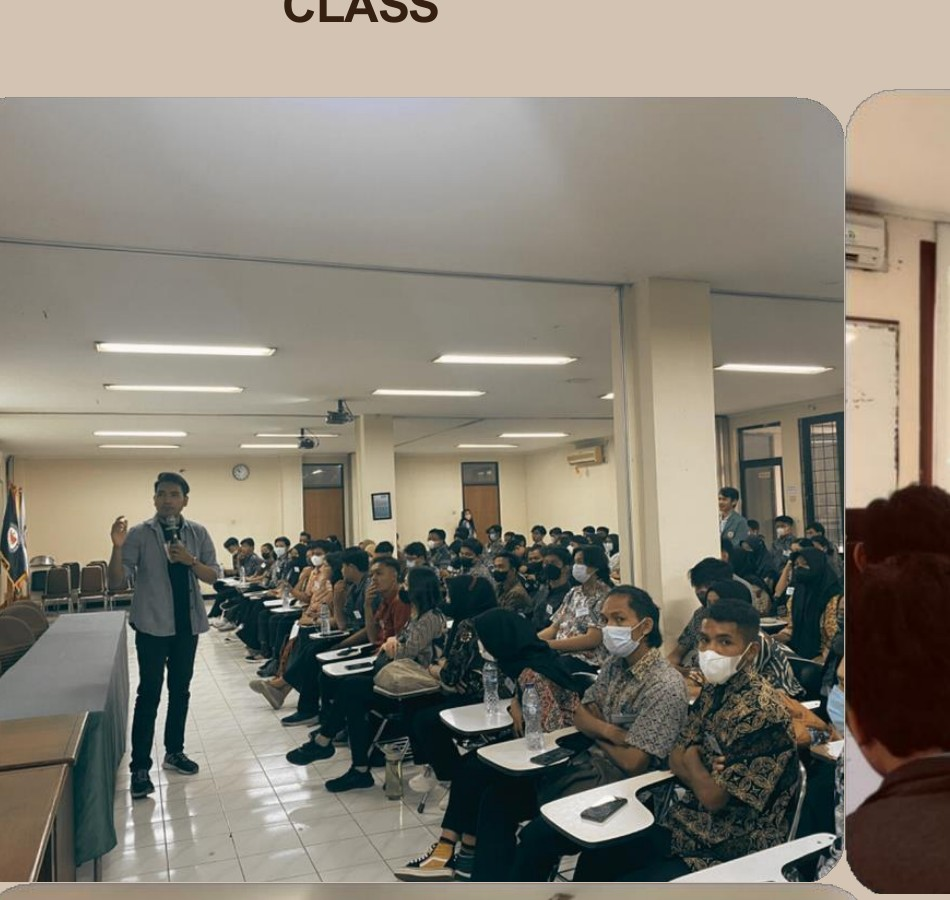
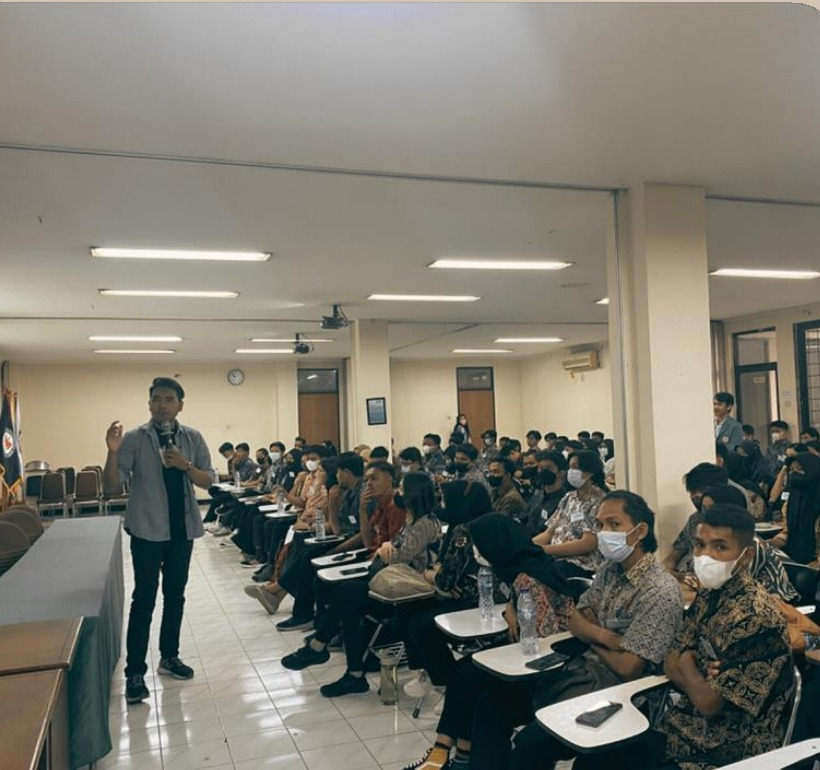
feat: full leadership photo sets, IG links, remove KUTU IT, no-crop gallery, ministries section, hero self-intro

diff --git a/data.js b/data.js
@@ -12,12 +12,12 @@ const UI = {
   navLeadership:{ nl: 'Leiderschap',    en: 'Leadership',      id: 'Kepemimpinan' },
   navContact:   { nl: 'Contact',        en: 'Contact',         id: 'Kontak' },
 
-  heroEyebrow:  { nl: 'TECHNOLOGIE × STRATEGIE × LEIDERSCHAP', en: 'TECHNOLOGY × STRATEGY × LEADERSHIP', id: 'TEKNOLOGI × STRATEGI × KEPEMIMPINAN' },
-  heroHeadline: { nl: 'IK BOUW SYSTEMEN DIE ECHT WERKEN.', en: 'I BUILD SYSTEMS THAT ACTUALLY WORK.', id: 'SAYA MEMBANGUN SISTEM YANG BENAR-BENAR JALAN.' },
+  heroEyebrow:  { nl: 'INDONESIË → NEDERLAND · AI & STRATEGIE', en: 'INDONESIA → NETHERLANDS · AI & STRATEGY', id: 'INDONESIA → BELANDA · AI & STRATEGI' },
+  heroHeadline: { nl: 'HALLO, IK BEN EGGAN NACHSON SILUETA.', en: "HELLO, I'M EGGAN NACHSON SILUETA.", id: 'HALO, SAYA EGGAN NACHSON SILUETA.' },
   heroSub: {
-    nl: 'Ik bouw digitale producten en AI-gedreven systemen, leid gemeenschappen, en zet ideeën om in dingen die echte impact maken.',
-    en: 'I build digital products and AI-powered systems, lead communities, and turn ideas into things that create real impact.',
-    id: 'Saya membangun produk digital dan sistem berbasis AI, memimpin komunitas, dan mengubah ide menjadi sesuatu yang berdampak nyata.',
+    nl: 'Ik kom uit Indonesië en volg momenteel mijn derde masteropleiding in Nederland. Ik behaalde een master Strategic Intelligence aan de Universiteit van Indonesië, een master Artificial Intelligence aan de Universität zu Lübeck, en rond nu een master Data-Driven Business af aan The Hague University of Applied Sciences. Ik heb AI-producten en -programma\'s mee opgebouwd voor Indonesië\'s Ministerie van Creatieve Economie en Ministerie van Onderzoek & Hoger Onderwijs / LPDP, en leid vandaag AI-productstrategie bij MatchupSkills.',
+    en: "I'm from Indonesia and currently pursuing my third master's degree in the Netherlands. I hold a master's in Strategic Intelligence from Universitas Indonesia, a master's in Artificial Intelligence from the University of Lübeck, and I'm now completing a master's in Data-Driven Business at The Hague University of Applied Sciences. I've helped build AI products and programs for Indonesia's Ministry of Creative Economy and Ministry of Research & Higher Education / LPDP, and I currently lead AI product strategy at MatchupSkills.",
+    id: 'Saya berasal dari Indonesia dan sedang menempuh gelar master ketiga saya di Belanda. Saya meraih gelar master Strategic Intelligence dari Universitas Indonesia, master Artificial Intelligence dari Universität zu Lübeck, dan saat ini menyelesaikan master Data-Driven Business di The Hague University of Applied Sciences. Saya turut membangun produk dan program AI untuk Kementerian Ekonomi Kreatif Indonesia dan Kementerian Riset & Pendidikan Tinggi / LPDP, dan kini memimpin strategi produk AI di MatchupSkills.',
   },
   heroCtaWork:    { nl: 'BEKIJK MIJN WERK', en: 'EXPLORE MY WORK', id: 'LIHAT KARYA SAYA' },
   heroCtaContact: { nl: 'NEEM CONTACT OP', en: "LET'S CONNECT", id: 'HUBUNGI SAYA' },
@@ -26,18 +26,23 @@ const UI = {
   metaBuilt:    { nl: 'GEBOUWD', en: 'BUILT', id: 'DIBANGUN' },
   metaCommunity:{ nl: 'GEMEENSCHAP', en: 'COMMUNITY', id: 'KOMUNITAS' },
   metaBasedInVal:   { nl: 'Den Haag, Nederland', en: 'The Hague, Netherlands', id: 'Den Haag, Belanda' },
-  metaEducationVal: { nl: '2× Masterdiploma\'s', en: '2× Master\'s Degrees', id: '2× Gelar Master' },
+  metaEducationVal: { nl: '3× Masterdiploma\'s', en: '3× Master\'s Degrees', id: '3× Gelar Master' },
   metaBuiltVal:     { nl: '4 productiesystemen', en: '4 Production Systems', id: '4 Sistem Produksi' },
   metaCommunityVal: { nl: '20K+ netwerk in Indonesië', en: '20K+ Network Across Indonesia', id: '20K+ Jaringan di Indonesia' },
 
   homeSectionWork:       { nl: 'GESELECTEERD WERK', en: 'SELECTED WORK', id: 'KARYA PILIHAN' },
   homeSectionLeadership: { nl: 'VOORBIJ DE CODE', en: 'BEYOND THE CODE', id: 'LEBIH DARI SEKADAR KODE' },
+  ministriesEyebrow: { nl: 'NATIONALE IMPACT', en: 'NATIONAL IMPACT', id: 'DAMPAK NASIONAL' },
+  ministriesTitle: { nl: 'Ik heb Indonesische ministeries geholpen AI-producten te bouwen', en: "I've helped Indonesian ministries build AI products", id: 'Saya membantu kementerian Indonesia membangun produk AI' },
+  ministriesNote: { nl: 'Via de gemeenschappen die ik leid, heb ik meegewerkt aan AI-producten en -programma\'s voor twee Indonesische ministeries.', en: "Through the communities I lead, I've contributed AI products and programs for two Indonesian ministries.", id: 'Lewat komunitas yang saya pimpin, saya turut membangun produk dan program AI untuk dua kementerian Indonesia.' },
+  viewOrg:  { nl: 'Bekijk organisatie', en: 'View organization', id: 'Lihat organisasi' },
   homeSectionResearch:   { nl: 'ONDERZOEK', en: 'RESEARCH', id: 'RISET' },
   viewAll:      { nl: 'Bekijk alles', en: 'View all', id: 'Lihat semua' },
   readMore:     { nl: 'Meer lezen', en: 'Read more', id: 'Baca selengkapnya' },
   viewCaseStudy:{ nl: 'Bekijk case study', en: 'View case study', id: 'Lihat studi kasus' },
   visitSite:    { nl: 'Bezoek live site', en: 'Visit live site', id: 'Kunjungi situs live' },
   viewScreens:  { nl: 'Bekijk screenshots', en: 'View screenshots', id: 'Lihat screenshot' },
+  viewInstagram:{ nl: 'Instagram', en: 'Instagram', id: 'Instagram' },
   projectLabel: { nl: 'PROJECT', en: 'PROJECT', id: 'PROYEK' },
   close:        { nl: 'SLUITEN', en: 'CLOSE', id: 'TUTUP' },
 
@@ -264,6 +269,40 @@ const PROJECTS = [
   },
 ];
 
+// ── National impact: ministries & institutions ──────────────────────────────
+// NEW 2026-08-15 — home-page proof that the community-leadership work (ICCN,
+// MatchupSkills) isn't just volunteering, it's building real AI products and
+// programs alongside Indonesian government ministries and institutions.
+const MINISTRIES = [
+  {
+    logos: [{ img: 'ekraf.png', name: 'Kementerian Ekonomi Kreatif RI' }],
+    photo: 'iccn-1-headline.jpg',
+    ministryName: { nl: 'Ministerie van Creatieve Economie (Kemenparekraf/EKRAF)', en: 'Ministry of Creative Economy (Kemenparekraf/EKRAF)', id: 'Kementerian Ekonomi Kreatif RI (Kemenparekraf/EKRAF)' },
+    desc: {
+      nl: 'Als Community Director bij de Indonesian Creative Cities Network (ICCN) help ik het Ministerie van Creatieve Economie met talentontwikkeling en AI-certificering voor jonge creatieven in 38 provincies. Ik bouwde mee aan het platform daarvoor via Creative AI Partner.',
+      en: 'As Community Director at the Indonesian Creative Cities Network (ICCN), I support the Ministry of Creative Economy on talent development and AI certification for young creatives across 38 provinces. I helped build the platform for it through Creative AI Partner.',
+      id: 'Sebagai Community Director di Indonesian Creative Cities Network (ICCN), saya membantu Kementerian Ekonomi Kreatif dalam pengembangan talenta dan sertifikasi AI untuk kreator muda di 38 provinsi. Saya turut membangun wadahnya lewat Creative AI Partner.',
+    },
+    org: { name: 'Indonesian Creative Cities Network (ICCN)', url: 'https://www.instagram.com/iccnmedia/?hl=en' },
+    product: { name: 'Creative AI Partner', url: 'https://www.creativeaipartner.id' },
+  },
+  {
+    logos: [
+      { text: 'Kemendiktisaintek', name: 'Kementerian Pendidikan Tinggi, Sains & Teknologi RI' },
+      { img: 'lpdp.png', name: 'LPDP — Lembaga Pengelola Dana Pendidikan' },
+    ],
+    photo: 'ms-home.jpg',
+    ministryName: { nl: 'Ministerie van Hoger Onderwijs, Wetenschap & Technologie + LPDP', en: 'Ministry of Higher Education, Science & Technology + LPDP', id: 'Kementerian Pendidikan Tinggi, Sains & Teknologi + LPDP' },
+    desc: {
+      nl: 'Bij MatchupSkills bouw ik als AI Product Lead een leerplatform dat mensen helpt zich voor te bereiden op IELTS, scholarship-aanvragen, en thesis/dissertatie-schrijven — direct relevant voor het werk van het Ministerie van Hoger Onderwijs en LPDP-beursstudenten.',
+      en: 'At MatchupSkills, as AI Product Lead, I build a learning platform that helps people prepare for IELTS, scholarship applications, and thesis/dissertation writing — directly relevant to the Ministry of Higher Education\'s mission and LPDP scholarship awardees.',
+      id: 'Di MatchupSkills, sebagai AI Product Lead, saya membangun platform belajar yang membantu orang mempersiapkan IELTS, aplikasi beasiswa, dan penulisan tesis/disertasi — relevan langsung dengan misi Kementerian Pendidikan Tinggi dan para awardee beasiswa LPDP.',
+    },
+    org: null,
+    product: { name: 'MatchupSkills', url: 'https://www.matchupskills.id' },
+  },
+];
+
 // ── Leadership & Community ──────────────────────────────────────────────────
 // Synthesized from Portofolio_Eggan Nachson.pdf (11 slides) + the ICCN and
 // Indonesia Mengglobal appointment cards. Entries without a clean personal
@@ -271,19 +310,23 @@ const PROJECTS = [
 // instead of forcing a mismatched image.
 const LEADERSHIP = [
   {
-    year: '2025 — ', yearSuffix: { nl: 'HEDEN', en: 'PRESENT', id: 'SEKARANG' }, img: 'iccn-director.jpg',
+    year: '2025 — ', yearSuffix: { nl: 'HEDEN', en: 'PRESENT', id: 'SEKARANG' },
+    images: ['iccn-1-headline.jpg', 'iccn-2-programs.jpg', 'iccn-3-fgd-events.jpg', 'iccn-4-river.jpg'],
+    link: 'https://www.instagram.com/iccnmedia/?hl=en',
     org: 'Indonesian Creative Cities Network',
     role: { nl: 'Directeur Talentontwikkeling & Certificering', en: 'Director of Talent Development & Certification', id: 'Direktur Pengembangan Talenta & Sertifikasi' },
     stat: '25K+',
     statLabel: { nl: 'Leden in het ecosysteem', en: 'Ecosystem Members', id: 'Anggota Ekosistem' },
     desc: {
-      nl: 'Leidt nationale AI- en digitale-economiecertificeringsinitiatieven met het Ministerie van Creatieve Economie in 38 provincies. Beheert 120+ regionale leiders binnen een landelijke talentontwikkelingsstructuur; schaalde ecosysteembetrokkenheid naar 25.000+ leden.',
-      en: 'Leading national AI and digital-economy certification initiatives with the Ministry of Creative Economy across 38 provinces. Managing 120+ regional leaders under a nationwide talent development structure; scaled ecosystem engagement to 25,000+ members.',
-      id: 'Memimpin inisiatif sertifikasi AI dan ekonomi digital nasional bersama Kementerian Ekonomi Kreatif di 38 provinsi. Mengelola 120+ pemimpin regional dalam struktur pengembangan talenta nasional; menskalakan keterlibatan ekosistem hingga 25.000+ anggota.',
+      nl: 'ICCN is waar ik het Indonesische Ministerie van Creatieve Economie (Kemenparekraf) ondersteun als Community Director voor jong creatief talent — ik bouwde het platform daarvoor mee via Creative AI Partner. Leidt nationale AI- en digitale-economiecertificeringsinitiatieven in 38 provincies, beheert 120+ regionale leiders en schaalde ecosysteembetrokkenheid naar 25.000+ leden.',
+      en: 'ICCN is where I support Indonesia\'s Ministry of Creative Economy (Kemenparekraf) as Community Director for young creative talent — I helped build the platform for it through Creative AI Partner. Leading national AI and digital-economy certification initiatives across 38 provinces, managing 120+ regional leaders and scaling ecosystem engagement to 25,000+ members.',
+      id: 'ICCN adalah tempat saya membantu Kementerian Ekonomi Kreatif Indonesia (Kemenparekraf) sebagai Community Director untuk talenta kreatif muda — saya turut membangun wadahnya lewat Creative AI Partner. Memimpin inisiatif sertifikasi AI dan ekonomi digital nasional di 38 provinsi, mengelola 120+ pemimpin regional, dan menskalakan keterlibatan ekosistem hingga 25.000+ anggota.',
     },
   },
   {
-    year: '2026', yearSuffix: { nl: 'HEDEN', en: 'PRESENT', id: 'SEKARANG' }, img: 'indonesia-mengglobal.jpg',
+    year: '2026', yearSuffix: { nl: 'HEDEN', en: 'PRESENT', id: 'SEKARANG' },
+    images: ['mengglobal-1-headline.jpg', 'mengglobal-2-programs.jpg', 'mengglobal-3-programs.jpg'],
+    link: 'https://www.instagram.com/indonesiamengglobal/?hl=en',
     org: 'Indonesia Mengglobal',
     role: { nl: 'VP Strategische Partnerschappen & Communicatie', en: 'VP Strategic Partnerships & Communications', id: 'VP Kemitraan Strategis & Komunikasi' },
     stat: '10K+',
@@ -322,6 +365,7 @@ const LEADERSHIP = [
     // Branding & Creative" (that title came from an older self-made slide
     // deck and undersold his actual scope — CV is the authoritative source).
     year: '2024', yearSuffix: { nl: 'HEDEN', en: 'PRESENT', id: 'SEKARANG' }, img: null,
+    link: 'https://www.instagram.com/titikterangmedia/?hl=en',
     org: 'Titik Terang Community',
     role: { nl: 'Chief Operating Officer', en: 'Chief Operating Officer', id: 'Chief Operating Officer' },
     stat: '1.000+',
@@ -346,6 +390,7 @@ const LEADERSHIP = [
   },
   {
     year: '2024', yearSuffix: { nl: 'HEDEN', en: 'PRESENT', id: 'SEKARANG' }, img: null,
+    link: 'https://www.instagram.com/youthranger.id/?hl=en',
     org: 'YouthRanger.id',
     role: { nl: 'Creatief Consultant', en: 'Creative Consultant', id: 'Konsultan Kreatif' },
     stat: '218K+',
@@ -392,26 +437,13 @@ const LEADERSHIP = [
       id: 'Menjadi mentor Business Development dalam program belajar kolaboratif yang mencakup kelas BD, web development, data science, dan Figma.',
     },
   },
-  {
-    year: '2021', img: 'kutu-it.jpg',
-    org: 'Project KUTU IT',
-    role: { nl: 'Technopreneurship-mentor', en: 'Technopreneurship Mentor', id: 'Mentor Technopreneurship' },
-    stat: '45',
-    statLabel: { nl: 'Deelnemers — Digital Skills Bootcamp', en: 'Attendance — Digital Skills Bootcamp', id: 'Peserta — Digital Skills Bootcamp' },
-    desc: {
-      nl: 'Zijn vroegste mentorproject: een digitale-vaardighedenbootcamp voor universiteitsstudenten, in samenwerking met HIMTI ITB Swadharma.',
-      en: 'His earliest mentorship project — a digital skills bootcamp for university students, run with HIMTI at ITB Swadharma.',
-      id: 'Proyek mentorship paling awal — bootcamp keterampilan digital untuk mahasiswa, diselenggarakan bersama HIMTI ITB Swadharma.',
-    },
-  },
 ];
 
 // ── Gallery (Field Notes) ───────────────────────────────────────────────────
 const GALLERY = [
   { img: 'critical-grounds-stage.jpg', caption: { nl: 'Critical Grounds — gesprek op het podium', en: 'Critical Grounds — on-stage conversation', id: 'Critical Grounds — sesi panggung' } },
-  { img: 'iccn-fgd-palembang.jpg', caption: { nl: 'Focus-groepdiscussie, Palembang', en: 'Focus group discussion, Palembang', id: 'Focus group discussion, Palembang' } },
-  { img: 'river-cleanup-1.jpg', caption: { nl: 'Musi-rivier schoonmaakactie', en: 'Musi River cleanup movement', id: 'Gerakan bersih Sungai Musi' } },
-  { img: 'river-cleanup-2.jpg', caption: { nl: 'Nationale Rivierdag 2026', en: 'National River Day 2026', id: 'Hari Sungai Nasional 2026' } },
+  { img: 'iccn-fgd-palembang.jpg', caption: { nl: 'ICCN Sumsel — focus-groepdiscussie, Palembang', en: 'ICCN Sumsel — focus group discussion, Palembang', id: 'ICCN Sumsel — focus group discussion, Palembang' } },
+  { img: 'river-cleanup.jpg', caption: { nl: '"Guardians of the River" — Musi-rivier schoonmaakactie', en: '"Guardians of the River" — Musi River cleanup movement', id: '"Guardians of the River" — gerakan bersih Sungai Musi' } },
   { img: 'timur-growth-panel.jpg', caption: { nl: 'Timur Growth 2 — panel', en: 'Timur Growth 2 — panel', id: 'Timur Growth 2 — panel' } },
   { img: 'unesco-forum.jpg', caption: { nl: 'UNESCO & UNDP forum', en: 'UNESCO & UNDP forum', id: 'Forum UNESCO & UNDP' } },
   { img: 'pindad-visit.jpg', caption: { nl: 'PT Pindad studiebezoek', en: 'PT Pindad study visit', id: 'Kunjungan studi PT Pindad' } },
@@ -480,4 +512,4 @@ const CONTACT = {
   waNetherlands: { phone: '+31 6 85527266', link: 'https://wa.me/31685527266', label: { nl: 'WhatsApp (Nederland)', en: 'WhatsApp (Netherlands)', id: 'WhatsApp (Belanda)' } },
 };
 
-module.exports = { LANGS, UI, EDUCATION, EXPERIENCE, COURSES, ACHIEVEMENTS, SKILLS, PROJECTS, LEADERSHIP, GALLERY, RESEARCH, CONTACT };
+module.exports = { LANGS, UI, EDUCATION, EXPERIENCE, COURSES, ACHIEVEMENTS, SKILLS, PROJECTS, MINISTRIES, LEADERSHIP, GALLERY, RESEARCH, CONTACT };

diff --git a/build-portfolio.js b/build-portfolio.js
@@ -1,6 +1,6 @@
 const fs = require('fs');
 const path = require('path');
-const { LANGS, UI, EDUCATION, EXPERIENCE, COURSES, ACHIEVEMENTS, SKILLS, PROJECTS, LEADERSHIP, GALLERY, RESEARCH, CONTACT } = require('./data.js');
+const { LANGS, UI, EDUCATION, EXPERIENCE, COURSES, ACHIEVEMENTS, SKILLS, PROJECTS, MINISTRIES, LEADERSHIP, GALLERY, RESEARCH, CONTACT } = require('./data.js');
 
 const ROOT = __dirname;
 const OUT = path.join(ROOT, 'dist');
@@ -235,15 +235,35 @@ html[data-theme="dark"] .theme-icon-moon { opacity: 1; transform: scale(1); }
 @media (max-width: 820px) { .lead-grid { grid-template-columns: 1fr; } }
 .lead-card { background: var(--black-surface); padding: 26px 26px 28px; display: flex; flex-direction: column; gap: 10px; }
 .lead-card.has-img { padding: 0; }
-.lead-img { aspect-ratio: 16/10; overflow: hidden; position: relative; }
-.lead-img img { width: 100%; height: 100%; object-fit: cover; transition: transform .3s ease; }
-.lead-card:hover .lead-img:not(.lead-carousel) img { transform: scale(1.03); }
+.lead-img { aspect-ratio: 4/3; overflow: hidden; position: relative; background: var(--black-surface); transition: aspect-ratio .25s ease; }
+.lead-img img { width: 100%; height: 100%; object-fit: contain; transition: transform .3s ease; }
+.lead-card:hover .lead-img:not(.lead-carousel) img { transform: scale(1.02); }
+.lead-ig-link { position: absolute; bottom: 10px; right: 10px; z-index: 2; display: flex; align-items: center; gap: 5px; font-size: 10.5px; font-weight: 700; letter-spacing: 0.04em; color: #fff; background: rgba(0,0,0,0.55); padding: 6px 11px; border-radius: 999px; text-decoration: none; transition: background .15s ease; }
+.lead-ig-link:hover { background: rgba(0,0,0,0.8); }
+.lead-card:not(.has-img) .lead-ig-link { position: static; align-self: flex-start; margin-top: 4px; background: rgba(255,255,255,0.08); }
+.lead-card:not(.has-img) .lead-ig-link:hover { background: rgba(255,255,255,0.16); }
 .lead-carousel .lead-slide { position: absolute; inset: 0; opacity: 0; transition: opacity .25s ease; }
 .lead-carousel .lead-slide.active { opacity: 1; }
 .lead-car-btn { position: absolute; top: 50%; transform: translateY(-50%); width: 34px; height: 34px; border-radius: 50%; border: none; background: rgba(0,0,0,0.55); color: #fff; cursor: pointer; font-size: 15px; z-index: 2; }
 .lead-car-prev { left: 10px; } .lead-car-next { right: 10px; }
 .lead-car-counter { position: absolute; top: 10px; right: 10px; font-size: 10.5px; font-weight: 700; color: #fff; background: rgba(0,0,0,0.55); padding: 3px 9px; border-radius: 999px; z-index: 2; }
 .lead-card-body { padding: 22px 24px 26px; }
+
+/* Ministries (home) */
+.ministries-grid { display: grid; grid-template-columns: 1fr 1fr; gap: 26px; }
+@media (max-width: 860px) { .ministries-grid { grid-template-columns: 1fr; } }
+.ministry-card { border: 1px solid var(--border); border-radius: 3px; overflow: hidden; background: var(--white); }
+.ministry-photo { aspect-ratio: 4/3; overflow: hidden; background: var(--gray-light); }
+.ministry-photo img { width: 100%; height: 100%; object-fit: cover; object-position: top; }
+.ministry-body { padding: 24px 26px 28px; }
+.ministry-logos { display: flex; align-items: center; gap: 16px; flex-wrap: wrap; margin-bottom: 16px; }
+.ministry-logo-img { height: 34px; width: auto; max-width: 120px; object-fit: contain; }
+.ministry-logo-text { font-family: var(--serif); font-weight: 700; font-size: 13.5px; color: var(--ink-soft); border: 1px solid var(--border); border-radius: 3px; padding: 6px 10px; }
+.ministry-name { font-size: 17px; font-weight: 800; margin: 0 0 10px; text-wrap: balance; }
+.ministry-desc { font-size: 13.5px; color: var(--ink-soft); line-height: 1.65; margin: 0 0 20px; }
+.ministry-links { display: flex; flex-wrap: wrap; gap: 10px; }
+.ministry-link.btn-outline { color: var(--ink); border-color: var(--border); }
+.ministry-link.btn-outline:hover { border-color: var(--ink); }
 .lead-year { font-size: 11px; color: #8A8A86; font-weight: 700; letter-spacing: 0.06em; }
 .lead-org { font-size: 17px; font-weight: 800; margin: 6px 0 2px; }
 .lead-role { font-size: 12.5px; color: #A8A8A4; margin-bottom: 10px; }
@@ -254,10 +274,10 @@ html[data-theme="dark"] .theme-icon-moon { opacity: 1; transform: scale(1); }
 /* Gallery — big single-photo slideshow (matches the project-modal carousel
    language) with a thumbnail strip underneath so every photo is visible at
    a glance, not just reachable by clicking into a lightbox. */
-.gallery-main { position: relative; aspect-ratio: 16/9.5; background: #000; border-radius: 2px; overflow: hidden; }
+.gallery-main { position: relative; aspect-ratio: 16/9.5; background: #000; border-radius: 2px; overflow: hidden; transition: aspect-ratio .25s ease; }
 .gallery-slide { position: absolute; inset: 0; opacity: 0; transition: opacity .3s ease; }
 .gallery-slide.active { opacity: 1; }
-.gallery-slide img { width: 100%; height: 100%; object-fit: cover; object-position: center; cursor: zoom-in; }
+.gallery-slide img { width: 100%; height: 100%; object-fit: contain; object-position: center; cursor: zoom-in; }
 .gallery-main .car-btn { width: 44px; height: 44px; font-size: 18px; }
 .gallery-caption-bar { position: absolute; left: 0; right: 0; bottom: 0; padding: 34px 20px 16px; background: linear-gradient(to top, rgba(0,0,0,.75), transparent); color: #fff; font-size: 13px; font-weight: 600; }
 .gallery-thumbs { display: flex; gap: 10px; overflow-x: auto; padding: 4px 2px 8px; margin-top: 16px; }
@@ -432,6 +452,25 @@ function buildHome(lang) {
 
   const topProjects = PROJECTS.slice(0, 2).map(p => projectCardHtml(p, lang)).join('');
   const topLeadership = LEADERSHIP.slice(0, 4).map((l, i) => leadershipCardHtml(l, lang, 'home-' + i)).join('');
+  const ministriesHtml = MINISTRIES.map(m => {
+    const logos = m.logos.map(l => l.img
+      ? `<img src="${assetUrl('logos/' + l.img)}" alt="${l.name}" title="${l.name}" class="ministry-logo-img" />`
+      : `<span class="ministry-logo-text" title="${l.name}">${l.text}</span>`).join('');
+    const links = [
+      m.org ? `<a class="btn btn-outline ministry-link" href="${m.org.url}" target="_blank" rel="noopener noreferrer">${t(UI.viewOrg, lang)} ↗</a>` : '',
+      `<a class="btn btn-primary ministry-link" href="${m.product.url}" target="_blank" rel="noopener noreferrer">${t(UI.visitSite, lang)} — ${m.product.name} ↗</a>`,
+    ].join('');
+    return `
+    <div class="ministry-card reveal">
+      <div class="ministry-photo"><img src="${assetUrl('ministries/' + m.photo)}" alt="${t(m.ministryName, lang)}" loading="lazy" /></div>
+      <div class="ministry-body">
+        <div class="ministry-logos">${logos}</div>
+        <p class="ministry-name">${t(m.ministryName, lang)}</p>
+        <p class="ministry-desc">${t(m.desc, lang)}</p>
+        <div class="ministry-links">${links}</div>
+      </div>
+    </div>`;
+  }).join('');
 
   const body = `
   <section class="hero">
@@ -451,6 +490,15 @@ function buildHome(lang) {
   </section>
 
   <section class="section section-white">
+    <div class="wrap">
+      <p class="label label-blue"><span class="rule-blue"></span>${t(UI.ministriesEyebrow, lang)}</p>
+      <h2 class="font-display section-title" style="margin-top:10px">${t(UI.ministriesTitle, lang)}</h2>
+      <p class="section-note">${t(UI.ministriesNote, lang)}</p>
+      <div class="ministries-grid" style="margin-top:30px">${ministriesHtml}</div>
+    </div>
+  </section>
+
+  <section class="section section-off">
     <div class="wrap">
       <div class="section-head">
         <div><p class="label label-blue"><span class="rule-blue"></span>${t(UI.homeSectionWork, lang)}</p><h2 class="font-display section-title">${t(UI.workPageEyebrow, lang)}</h2></div>
@@ -683,29 +731,32 @@ function buildWork(lang) {
 
 function leadershipCardHtml(l, lang, idx) {
   const yearText = l.year + (l.yearSuffix ? ' ' + t(l.yearSuffix, lang) : '');
+  const igLink = l.link ? `<a class="lead-ig-link" href="${l.link}" target="_blank" rel="noopener noreferrer" onclick="event.stopPropagation()">${t(UI.viewInstagram, lang)} ↗</a>` : '';
   const inner = `
     <p class="lead-year">${yearText}</p>
     <p class="lead-org">${l.org}</p>
     <p class="lead-role">${t(l.role, lang)}</p>
     ${l.stat ? `<p class="lead-stat">${l.stat}</p><p class="lead-stat-label">${t(l.statLabel, lang)}</p>` : ''}
-    <p class="lead-desc">${t(l.desc, lang)}</p>`;
+    <p class="lead-desc">${t(l.desc, lang)}</p>
+    ${!l.images && !l.img ? igLink : ''}`;
   const images = l.images || (l.img ? [l.img] : []);
   if (images.length > 1) {
     const id = 'lead-' + idx;
-    const slides = images.map((img, i) => `<div class="lead-slide${i === 0 ? ' active' : ''}"><img src="${assetUrl('leadership/' + img)}" alt="${l.org}" loading="lazy" /></div>`).join('');
+    const slides = images.map((img, i) => `<div class="lead-slide${i === 0 ? ' active' : ''}"><img src="${assetUrl('leadership/' + img)}" alt="${l.org}" loading="lazy" onload="leadSyncRatio(this)" /></div>`).join('');
     return `<div class="lead-card has-img reveal">
       <div class="lead-img lead-carousel" id="${id}">
         ${slides}
         <button type="button" class="lead-car-btn lead-car-prev" onclick="event.preventDefault();leadPrev('${id}',${images.length})">‹</button>
         <button type="button" class="lead-car-btn lead-car-next" onclick="event.preventDefault();leadNext('${id}',${images.length})">›</button>
         <span class="lead-car-counter" id="${id}-counter">1 / ${images.length}</span>
+        ${igLink}
       </div>
       <div class="lead-card-body">${inner}</div>
     </div>`;
   }
   if (images.length === 1) {
     return `<div class="lead-card has-img reveal">
-      <div class="lead-img"><img src="${assetUrl('leadership/' + images[0])}" alt="${l.org}" loading="lazy" /></div>
+      <div class="lead-img"><img src="${assetUrl('leadership/' + images[0])}" alt="${l.org}" loading="lazy" onload="leadSyncRatio(this)" />${igLink}</div>
       <div class="lead-card-body">${inner}</div>
     </div>`;
   }
@@ -713,6 +764,12 @@ function leadershipCardHtml(l, lang, idx) {
 }
 
 const LEAD_CAROUSEL_JS = `
+function leadSyncRatio(img) {
+  var box = img.closest('.lead-img');
+  if (!box || !img.naturalWidth) return;
+  if (box.classList.contains('lead-carousel') && !img.closest('.lead-slide').classList.contains('active')) return;
+  box.style.aspectRatio = img.naturalWidth + ' / ' + img.naturalHeight;
+}
 function leadShow(id, idx) {
   var car = document.getElementById(id);
   if (!car) return;
@@ -721,16 +778,19 @@ function leadShow(id, idx) {
   car.dataset.idx = idx;
   var counter = document.getElementById(id + '-counter');
   if (counter) counter.textContent = (idx + 1) + ' / ' + slides.length;
+  var activeImg = slides[idx].querySelector('img');
+  if (activeImg.complete) leadSyncRatio(activeImg);
 }
 function leadNext(id, count) { var car = document.getElementById(id); var idx = ((car.dataset.idx | 0) + 1) % count; leadShow(id, idx); }
 function leadPrev(id, count) { var car = document.getElementById(id); var idx = ((car.dataset.idx | 0) - 1 + count) % count; leadShow(id, idx); }
+document.querySelectorAll('.lead-img img').forEach(function (img) { if (img.complete) leadSyncRatio(img); });
 `;
 
 function buildLeadership(lang) {
   const title = `Eggan Nachson Silueta — ${t(UI.navLeadership, lang)}`;
   const gallerySlides = GALLERY.map((g, i) => `
     <div class="gallery-slide${i === 0 ? ' active' : ''}" data-idx="${i}">
-      <img src="${assetUrl('gallery/' + g.img)}" alt="${t(g.caption, lang)}" loading="lazy" onclick="openLightbox(galIdx)" />
+      <img src="${assetUrl('gallery/' + g.img)}" alt="${t(g.caption, lang)}" loading="lazy" onclick="openLightbox(galIdx)" onload="if(+this.closest('.gallery-slide').dataset.idx===galIdx)galSyncRatio(this)" />
     </div>`).join('');
   const galleryThumbs = GALLERY.map((g, i) => `
     <button type="button" class="gallery-thumb${i === 0 ? ' active' : ''}" data-idx="${i}" onclick="goGallery(${i})">
@@ -771,6 +831,11 @@ function buildLeadership(lang) {
   const js = LEAD_CAROUSEL_JS + `
   var GAL_CAPTIONS = ${JSON.stringify(GALLERY.map(g => t(g.caption, lang)))};
   var galIdx = 0; var GAL_COUNT = ${GALLERY.length};
+  function galSyncRatio(img) {
+    var box = document.getElementById('galleryMain');
+    if (!box || !img.naturalWidth) return;
+    box.style.aspectRatio = img.naturalWidth + ' / ' + img.naturalHeight;
+  }
   function renderGallery() {
     document.querySelectorAll('.gallery-slide').forEach(function (s) { s.classList.toggle('active', +s.dataset.idx === galIdx); });
     document.querySelectorAll('.gallery-thumb').forEach(function (t) { t.classList.toggle('active', +t.dataset.idx === galIdx); });
@@ -778,7 +843,10 @@ function buildLeadership(lang) {
     document.getElementById('galCaption').textContent = GAL_CAPTIONS[galIdx];
     var thumb = document.querySelector('.gallery-thumb[data-idx="' + galIdx + '"]');
     if (thumb) thumb.scrollIntoView({ behavior: 'smooth', inline: 'center', block: 'nearest' });
+    var activeImg = document.querySelector('.gallery-slide[data-idx="' + galIdx + '"] img');
+    if (activeImg && activeImg.complete) galSyncRatio(activeImg);
   }
+  document.querySelectorAll('.gallery-slide.active img').forEach(function (img) { if (img.complete) galSyncRatio(img); });
   function galNav(dir) { galIdx = (galIdx + dir + GAL_COUNT) % GAL_COUNT; renderGallery(); }
   function goGallery(i) { galIdx = i; renderGallery(); }
 
